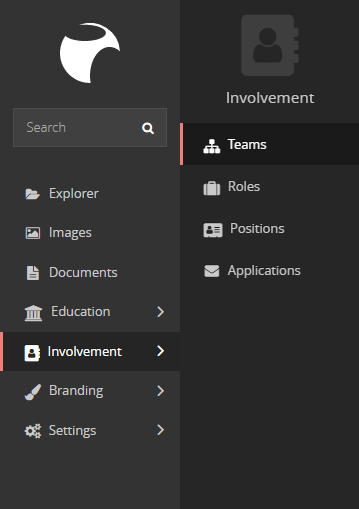
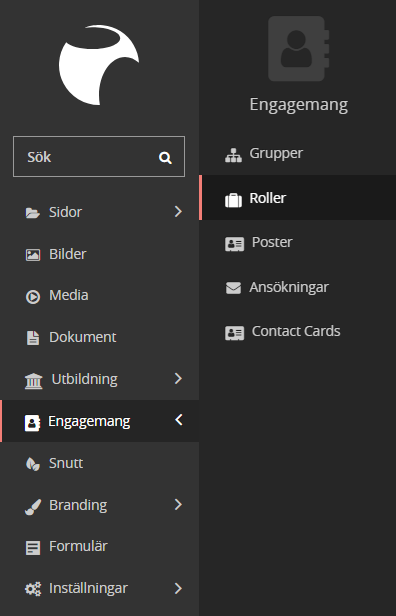
Updated involement menu image

diff --git a/content/project_moore/involvement/_index.md b/content/project_moore/involvement/_index.md
@@ -9,3 +9,5 @@ weight = 5
 
 This chapter describes how the involvement system works (e.g. [apply.utn.se](apply.utn.se)).
 These instructions will contain the information you need to administrate recruitements and applications.
+
+![Involvement Admin Menu](/images/moore/involvement_menu.png)
